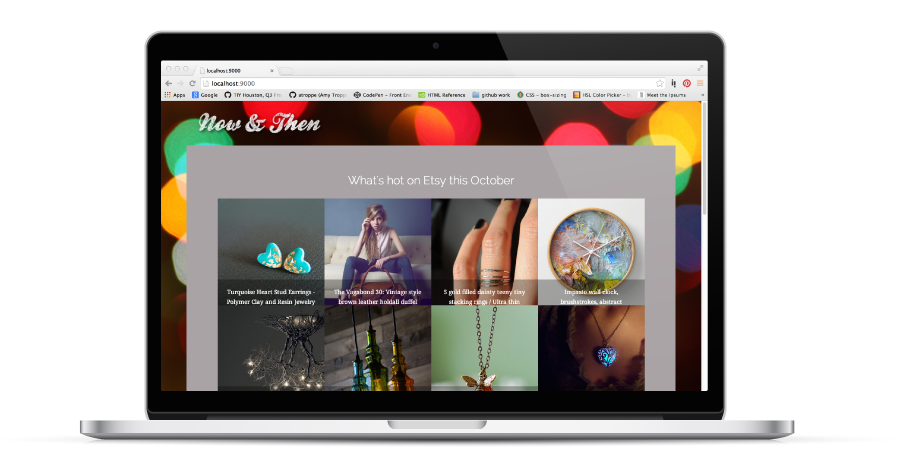
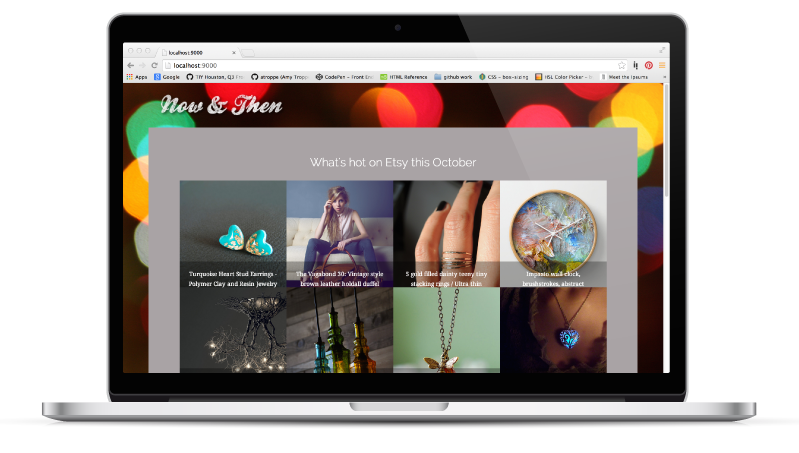
fixes

diff --git a/stylesheets/styles.css b/stylesheets/styles.css
@@ -28,10 +28,25 @@ body {
     height: 100%;
     margin: 0;
     padding: 0;
-    background-image: url(http://cl.ly/image/3P3y3m462o3f/vibrant%20colors.jpg);
+    background-image: url(../images/vibrant-colors.jpg);
     background-repeat: repeat;
     background-size: 100% auto;
-    min-width: 400px;
+}
+body, html {
+    min-width: 300px;
+}
+.wrapper {
+    max-width: 1280px;
+    padding: 10% 6%;
+    margin: 0 auto;
+    position: relative;
+}
+.arrow {
+    position: absolute;
+    bottom: 10px;
+    left: 50%;
+    font-size: 3em;
+    transform: translateX(-50%);
 }
 .homepage {
     color: white;
@@ -43,6 +58,8 @@ body {
     
     min-height: 100vh;
     overflow: auto;
+    /*    margin: 0 auto;
+    text-align: center;*/
 }
 .header {
     padding: 60px 60px 0px 60px;
@@ -145,7 +162,7 @@ h3 {
     letter-spacing: 4px;
 }
 .main {
-    padding: 80px 80px;
+    /*    padding: 10% 6%;*/
 }
 .right p {
     color: white;
@@ -280,13 +297,14 @@ h4 {
     
     margin: 0;
     position: relative;
+    font-size: 16px;
 }
 .bar h4 {
     color: white;
     text-align: center;
-    padding: 40px;
-    font-size: 2rem;
-    font-family: 'Cabin', serif;
+    padding: 2em;
+    font-size: 2em;
+    font-family: 'Cabin', sans-serif;
 }
 .my-icon {
     position: absolute;
@@ -324,9 +342,6 @@ h4 {
     
     text-align: left;
 }
-.intro, .desktopContainer {
-    width: 45%;
-}
 .intro h6 {
     color: #1C1241;
     font-size: 1.5rem;
@@ -346,39 +361,62 @@ h4 {
 .projects {
     padding: 50px;
 }
-.desktop {
+/*.desktop {
     text-align: center;
     border-radius: 25px;
     box-shadow: 4px 4px 14px #000;
     background-color: darkgrey;
     padding: 20px;
-}
-.screenshot {
+}*/
+/*.screenshot {
     width: 100%;
 }
 .imgContainer {
     height: 300px;
     overflow: auto;
+}*/
+
+.intro, .desktopContainer {
+    width: 45%;
+    overflow: auto;
 }
+.desktopContainer {
+    text-align: center;
+    /*    height: 500px;*/
+}
+/*.menuImage {
+    width: 777px;
+    height: 610px;
+    max-width: 100%;
+    height: auto;
+}*/
+
 .menuScreens {
-    background-image: url(http://cl.ly/image/201v2C1I203J/computersNmenu3.png);
-    background-size: 100% auto;
+    background-image: url('../images/menu-screen.png');
+    background-size: 90% auto;
     background-position: center;
-    height: 458px;
+    /*    width: 777px;*/
+    
+    width: 100%;
+    height: 610px;
     background-repeat: no-repeat;
 }
-.houseScreens {
+/*.houseScreens {
     background-image: url(http://cl.ly/image/3V1p0o0g2h0G/computersNhouse.png);
     background-size: 100% auto;
     background-position: center;
     height: 358px;
     background-repeat: no-repeat;
-}
+}*/
+
 .etsyScreens {
     background-image: url("../images/etsy-macbook.png");
     background-size: 100% auto;
     background-position: center;
-    height: 358px;
+    /*    width: 799px;*/
+    
+    width: 100%;
+    height: 453px;
     background-repeat: no-repeat;
 }
 .codeLinks {
@@ -563,7 +601,7 @@ footer a:link, footer a:visited, footer a:hover, footer a:active {
 }
 /**************************************************/
 
-@media (min-width: 400px) and (max-width: 939px) {
+@media (min-width: 300px) and (max-width: 939px) {
     nav {
         position: absolute;
         top: 10px;
@@ -593,6 +631,9 @@ footer a:link, footer a:visited, footer a:hover, footer a:active {
     .left, .smallLine, .numbers h4 {
         display: none;
     }
+    .right {
+        width: 100%;
+    }
     .header, .main, .homepage .logo, .resumeHeader, .resumeHeader .logo {
         text-align: center;
     }
@@ -606,13 +647,10 @@ footer a:link, footer a:visited, footer a:hover, footer a:active {
         text-align: center;
     }
     .desktopContainer, .intro {
-        width: 80%;
+        width: 100%;
     }
     .projects {
         padding: 50px;
-    }
-    .desktopContainer {
-        /*        padding: 50px;*/
     }
     .me, .contactInfo {
         width: 100%;
@@ -641,10 +679,17 @@ footer a:link, footer a:visited, footer a:hover, footer a:active {
         width: 50%;
         padding: 0;
     }
+    .bigLine {
+        width: 148px;
+        height: 15px;
+    }
 }
-@media (min-width: 400px) and (max-width: 599px) {
-    .numbers .circle, .numbers h5 {
-        width: 50%;
+@media (max-width: 599px) {
+    .numbers .circle {
+        width: 25%;
+    }
+    .numbers h5 {
+        width: 75%;
     }
     .numbers {
         width: 100%;
@@ -679,9 +724,13 @@ footer a:link, footer a:visited, footer a:hover, footer a:active {
     .projects {
         padding: 20px;
     }
-    .bar p {
+    /*   .bar h4 {
         padding: 20px;
         font-size: 1.5rem;
+    }*/
+    
+    .bar {
+        font-size: 10px;
     }
     .my-icon {
         display: none;
@@ -691,5 +740,30 @@ footer a:link, footer a:visited, footer a:hover, footer a:active {
     }
     .lineOne {
         font-size: 2rem;
+    }
+    .bigLine {
+        width: 148px;
+        height: 15px;
+    }
+    .home, .work, .contact {
+        display: none;
+    }
+    .header {
+        padding: 20% 0%;
+        /*        text-align: center;*/
+    }
+    .menuScreens, .etsyscreens {
+        height: 400px;
+    }
+}
+@media (max-width: 440px) {
+    .numbers .circle, .numbers h5 {
+        width: 100%;
+    }
+    .intro {
+        text-align: center;
+    }
+        .menuScreens, .etsyscreens {
+        height: 300px;
     }
 }

diff --git a/index.html b/index.html
@@ -2,7 +2,7 @@
 
 <head>
     <title>Amy Troppe Portfolio</title>
-
+    <meta name="viewport" content="width=device-width, initial-scale=1"></meta>
     <link rel="stylesheet" type="text/css" href="./stylesheets/normalize.css">
     <link rel="stylesheet" type="text/css" href="./stylesheets/typeplate.css">
     <link rel="stylesheet" type="text/css" href="./stylesheets/styles.css">
@@ -12,9 +12,6 @@
 
 <body>
     <div class="homepage cameleon">
-        <div id="pop">
-            <ul></ul>
-        </div>
         <div class="grid header">
             <div class="cell logo">
                 <div class="name">
@@ -45,32 +42,27 @@
                 </ul>
             </nav>
         </div>
-        <div class="grid main">
-            <div class="cell left">
-                <div class="goal">
-                    <p>Aspiring:</p>
-                    <ul>
-                        <li>Designer</li>
-                        <li>Full-stack developer</li>
-                        <li>UX aficionado</li>
-                    </ul>
+        <div class="wrapper">
+            <div class="grid main">
+                <div class="cell left">
+                    <div class="goal">
+                        <p>Aspiring:</p>
+                        <ul>
+                            <li>Designer</li>
+                            <li>Full-stack developer</li>
+                            <li>UX aficionado</li>
+                        </ul>
+                    </div>
                 </div>
-            </div>
-            <div class="cell right">
-                <h1 class="lineOne">DESIGN</h1>
-                <div class="bigLine"></div>
-
+                <div class="cell right">
+                    <h1 class="lineOne">DESIGN</h1>
+                    <div class="bigLine"></div>
+                </div>
             </div>
         </div>
-        <!--  <div class="more">
-            <h4>My development work is often driven by the visual end goal and interactive experience that the application becomes.</h4>
-            <div class="grid">
-                <p class="cell">Starting out with a really good idea and strong direction from a design team is what provides me with the most inspiration to work together until it is completed. My long term goal is to be able to work on the entire application from front to back, continuing to improve on the quality of user experience, interactivity, and optimization. I plan to reach that goal by contributing my abilities of visualization and foresight as a developer to a team, while learning new technologies.</p>
-                <div class="cell AT">
-                    <div class="leaf"></div>
-                </div>
-            </div>
-        </div> -->
+        <div class="arrow cell">
+            <i class="fa fa-angle-down"></i>
+        </div>
     </div>
 
     <div class="page2 grid">
@@ -206,7 +198,8 @@
         </div>
         <div class="projects grid">
             <div class="desktopContainer cell">
-                <div class="menuScreens"></div>
+                                <div class="menuScreens"></div>
+<!--                 <img class="menuImage" src="./images/menu-screen.png"> -->
             </div>
 
             <div class="intro cell">
@@ -220,7 +213,7 @@
             </div>
         </div>
 
-      <!--   <div class="grid projects">
+        <!--   <div class="grid projects">
             <div class="intro cell">
                 <h6>Brighton Home for Sale</h6>
                 <h7>Technologies: Responsive HTML/CSS</h7>
